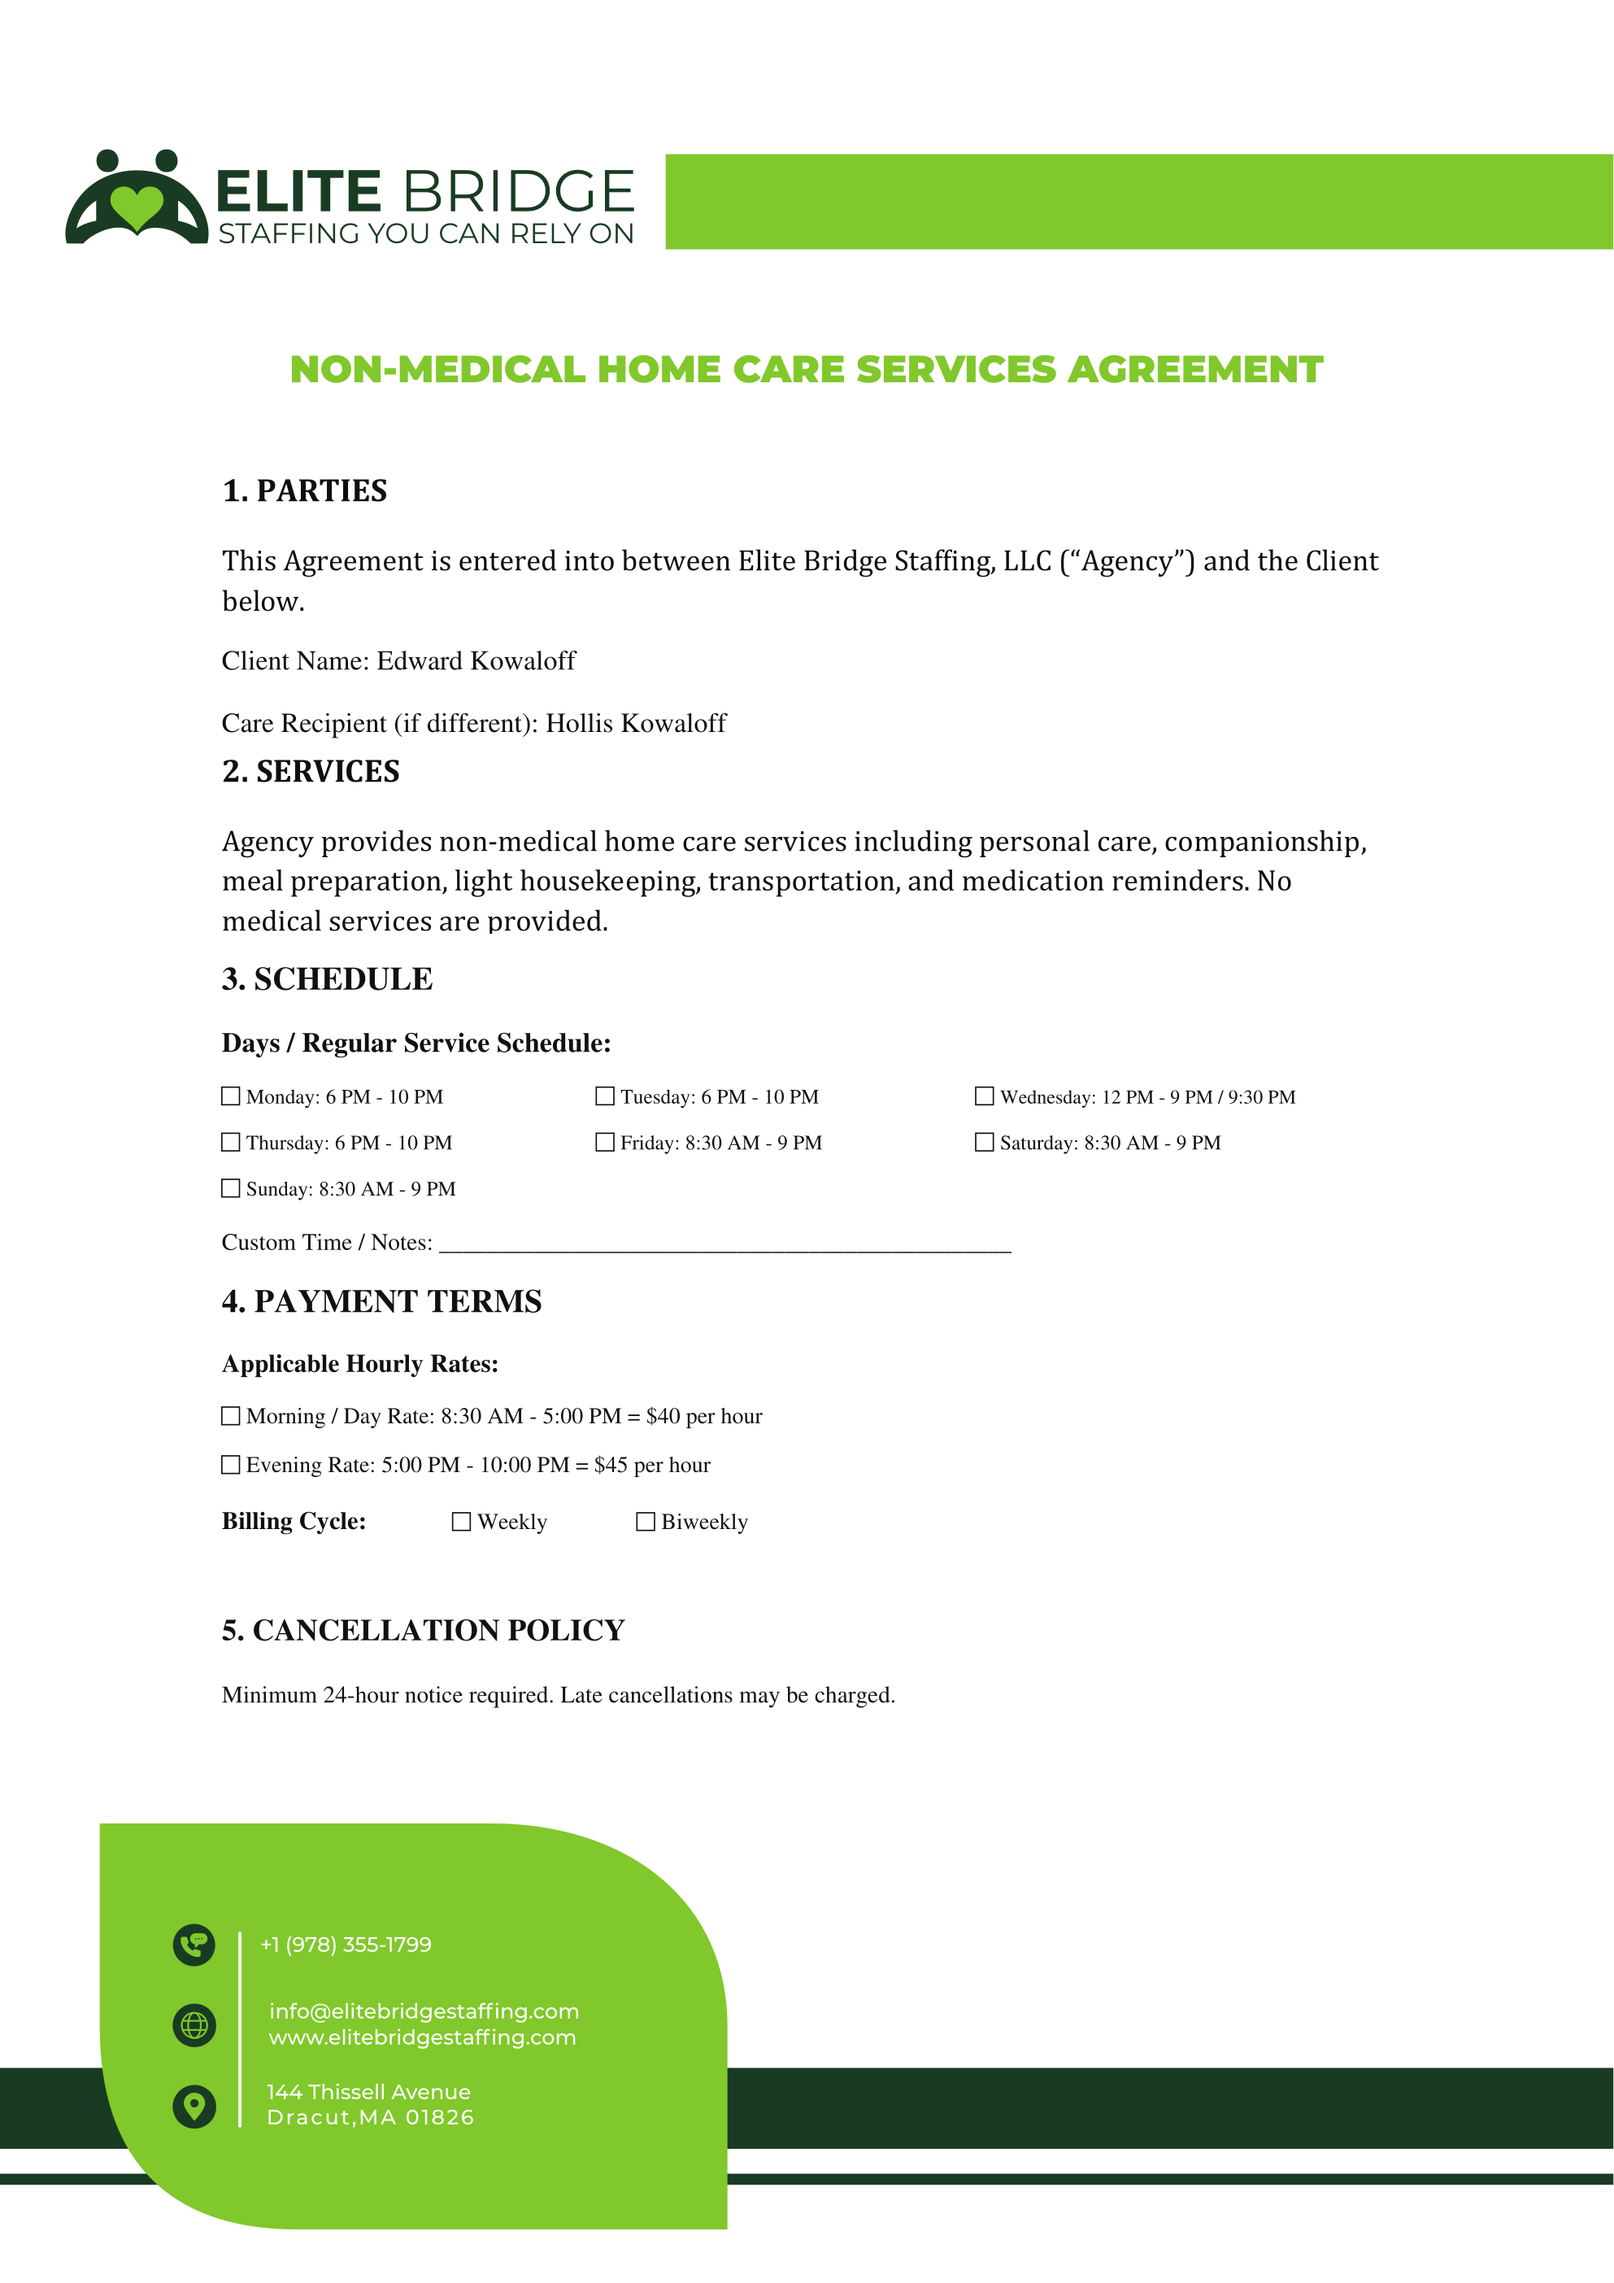
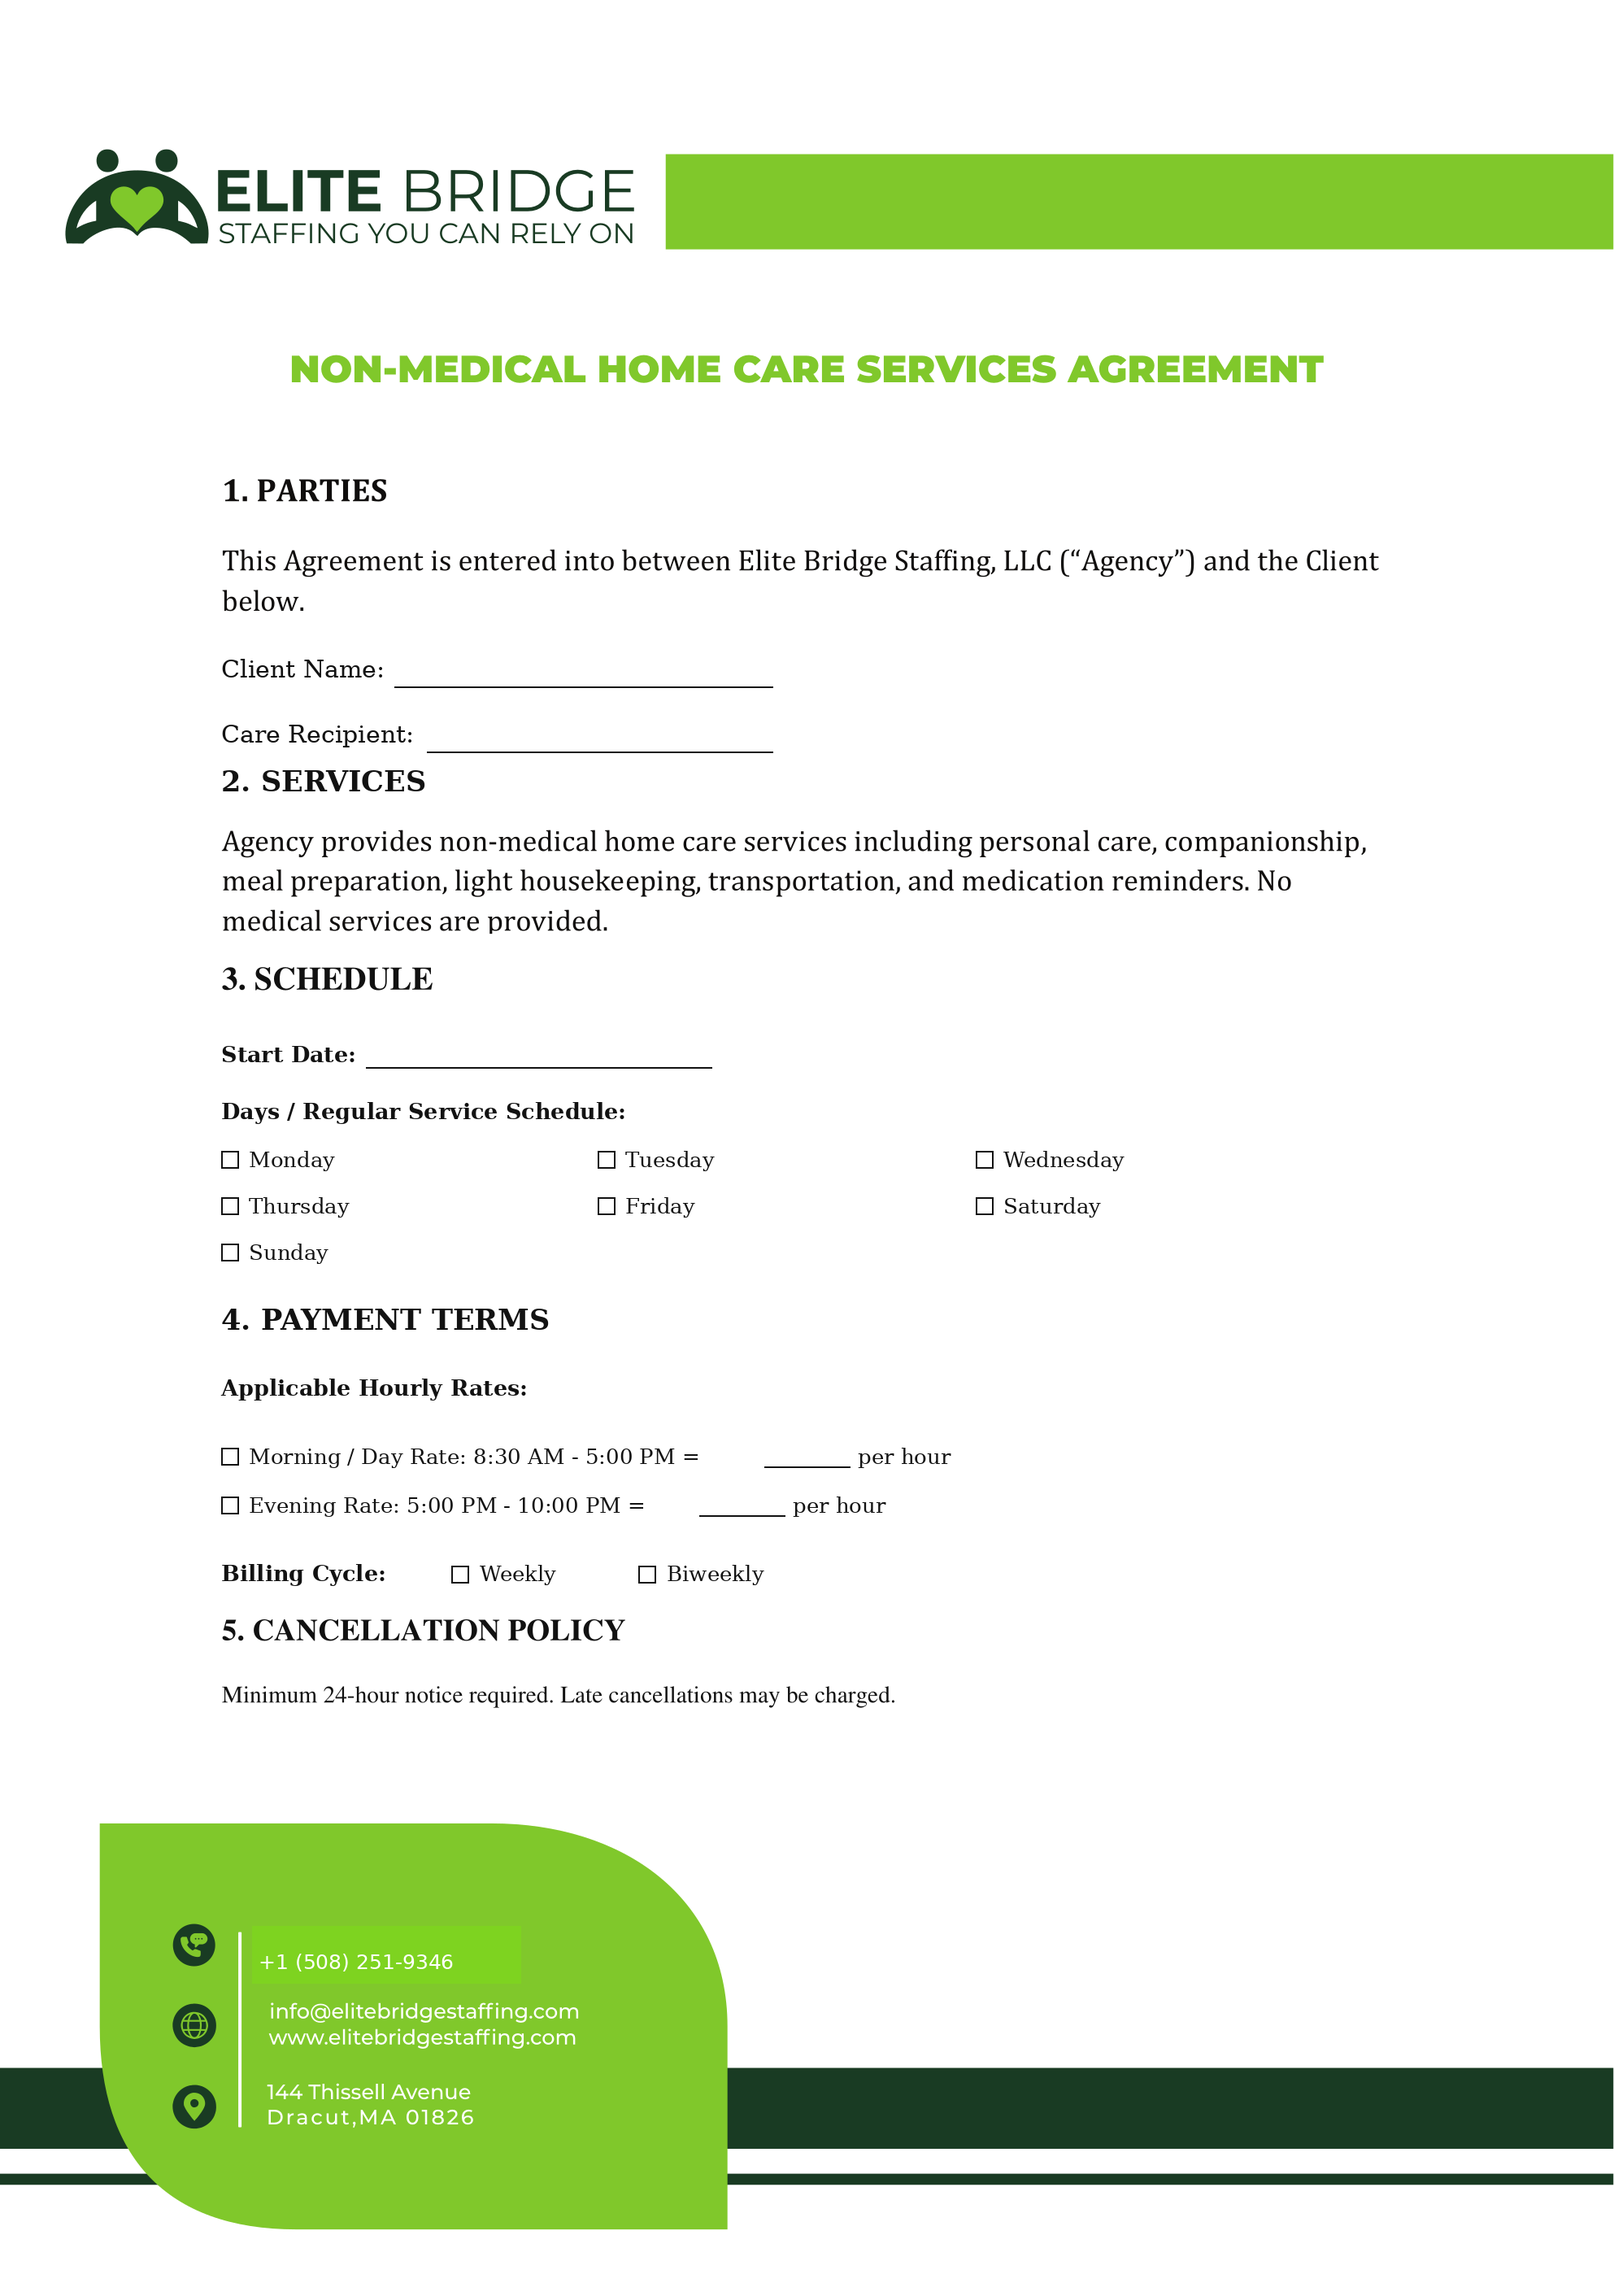
Align contract form with blank template

diff --git a/app-shell.css b/app-shell.css
@@ -684,7 +684,7 @@ a { color: inherit; }
 
 .template-mark {
   font-family: Arial, sans-serif;
-  font-size: clamp(12px, 1.55vw, 19px);
+  font-size: clamp(9px, 1.15vw, 14px);
   font-weight: 900;
   line-height: 1;
 }
@@ -696,38 +696,26 @@ a { color: inherit; }
   white-space: nowrap;
 }
 
-.cover-client { left: 13.2%; top: 28.34%; width: 38.2%; height: 1.9%; }
-.cover-recipient { left: 13.2%; top: 31.0%; width: 40.2%; height: 1.9%; }
-.cover-day-rate { left: 33.2%; top: 61.75%; width: 20%; height: 1.7%; }
-.cover-evening-rate { left: 29.2%; top: 63.95%; width: 20%; height: 1.7%; }
-.cover-mon { left: 15.25%; top: 47.35%; width: 17.5%; height: 1.75%; }
-.cover-tue { left: 38.55%; top: 47.35%; width: 17.5%; height: 1.75%; }
-.cover-wed { left: 61.95%; top: 47.35%; width: 28%; height: 1.75%; }
-.cover-thu { left: 15.25%; top: 49.45%; width: 17.5%; height: 1.75%; }
-.cover-fri { left: 38.55%; top: 49.45%; width: 17.5%; height: 1.75%; }
-.cover-sat { left: 61.95%; top: 49.45%; width: 17.5%; height: 1.75%; }
-.cover-sun { left: 15.25%; top: 51.48%; width: 17.5%; height: 1.75%; }
-.cover-custom { left: 13.2%; top: 53.5%; width: 52%; height: 1.75%; }
-.value-client { left: 23.4%; top: 28.58%; }
-.value-recipient { left: 32.5%; top: 31.24%; }
-.value-start { left: 23.3%; top: 45.25%; }
-.value-day-rate { left: 37.1%; top: 62.02%; }
-.value-evening-rate { left: 33.9%; top: 64.22%; }
-.mark-mon { left: 13.78%; top: 47.82%; }
-.mark-tue { left: 37.0%; top: 47.82%; }
-.mark-wed { left: 60.45%; top: 47.82%; }
-.mark-thu { left: 13.78%; top: 49.9%; }
-.mark-fri { left: 37.0%; top: 49.9%; }
-.mark-sat { left: 60.45%; top: 49.9%; }
-.mark-sun { left: 13.78%; top: 51.95%; }
-.mark-morning { left: 13.78%; top: 61.98%; }
-.mark-evening { left: 13.78%; top: 64.18%; }
-.mark-weekly { left: 28.2%; top: 66.45%; }
-.mark-biweekly { left: 39.7%; top: 66.45%; }
-.sig-client { left: 25.0%; top: 73.15%; }
-.date-client { left: 55.6%; top: 73.25%; }
-.sig-agency { left: 30.0%; top: 76.18%; }
-.date-agency { left: 55.6%; top: 76.22%; }
+.value-client { left: 24.6%; top: 28.85%; }
+.value-recipient { left: 26.7%; top: 31.7%; }
+.value-start { left: 22.8%; top: 45.72%; }
+.value-day-rate { left: 47.7%; top: 63.55%; }
+.value-evening-rate { left: 43.7%; top: 65.65%; }
+.mark-mon { left: 13.62%; top: 50.37%; }
+.mark-tue { left: 36.94%; top: 50.37%; }
+.mark-wed { left: 60.37%; top: 50.37%; }
+.mark-thu { left: 13.62%; top: 52.40%; }
+.mark-fri { left: 36.94%; top: 52.40%; }
+.mark-sat { left: 60.37%; top: 52.40%; }
+.mark-sun { left: 13.62%; top: 54.43%; }
+.mark-morning { left: 13.62%; top: 63.68%; }
+.mark-evening { left: 13.62%; top: 65.82%; }
+.mark-weekly { left: 27.85%; top: 68.48%; }
+.mark-biweekly { left: 39.45%; top: 68.48%; }
+.sig-client { left: 25.2%; top: 73.25%; }
+.date-client { left: 56.3%; top: 73.15%; }
+.sig-agency { left: 31.7%; top: 76.58%; }
+.date-agency { left: 56.8%; top: 76.47%; }
 
 .contract-empty-state {
   display: grid;

diff --git a/dashboard.js b/dashboard.js
@@ -152,17 +152,7 @@
 
     preview.innerHTML = `
       <section class="contract-template-page" aria-label="Contract page 1">
-        <img src="/elite-contract-template-1.png" alt="Elite Bridge contract page 1">
-        <span class="template-cover cover-client"></span>
-        <span class="template-cover cover-recipient"></span>
-        <span class="template-cover cover-mon"></span>
-        <span class="template-cover cover-tue"></span>
-        <span class="template-cover cover-wed"></span>
-        <span class="template-cover cover-thu"></span>
-        <span class="template-cover cover-fri"></span>
-        <span class="template-cover cover-sat"></span>
-        <span class="template-cover cover-sun"></span>
-        <span class="template-cover cover-custom"></span>
+        <img src="/elite-contract-template-1.png?v=blank-contract-20261001" alt="Elite Bridge contract page 1">
         <span class="template-value value-client">${escapeHtml(clientName)}</span>
         <span class="template-value value-recipient">${escapeHtml(careRecipient)}</span>
         <span class="template-value value-start">${escapeHtml(startDate)}</span>
@@ -177,13 +167,11 @@
         <span class="template-mark mark-evening">${rateCheckmark('Evening')}</span>
         <span class="template-mark mark-weekly">${contractCheckmark('contractBilling', 'Weekly')}</span>
         <span class="template-mark mark-biweekly">${contractCheckmark('contractBilling', 'Biweekly')}</span>
-        <span class="template-cover cover-day-rate"></span>
-        <span class="template-cover cover-evening-rate"></span>
         <span class="template-value value-day-rate">${escapeHtml(dayRate)}</span>
         <span class="template-value value-evening-rate">${escapeHtml(eveningRate)}</span>
       </section>
       <section class="contract-template-page" aria-label="Contract page 2">
-        <img src="/elite-contract-template-2.png" alt="Elite Bridge contract page 2">
+        <img src="/elite-contract-template-2.png?v=blank-contract-20261001" alt="Elite Bridge contract page 2">
         <span class="template-signature sig-client">${escapeHtml(clientSigner)}</span>
         <span class="template-value date-client">${escapeHtml(clientDate)}</span>
         <span class="template-signature sig-agency">${escapeHtml(agencySigner)}</span>

diff --git a/employer-dashboard.html b/employer-dashboard.html
@@ -6,7 +6,7 @@
   <meta name="theme-color" content="#063e2c">
   <meta name="description" content="Elite Bridge employer workspace for care shifts, caregivers, attendance, messages and payroll.">
   <title>Employer workspace | Elite Bridge</title>
-  <link rel="stylesheet" href="/app-shell.css?v=contract-original-20261001">
+  <link rel="stylesheet" href="/app-shell.css?v=contract-blank-20261001">
 </head>
 <body data-role="employer">
   <div class="app-frame">
